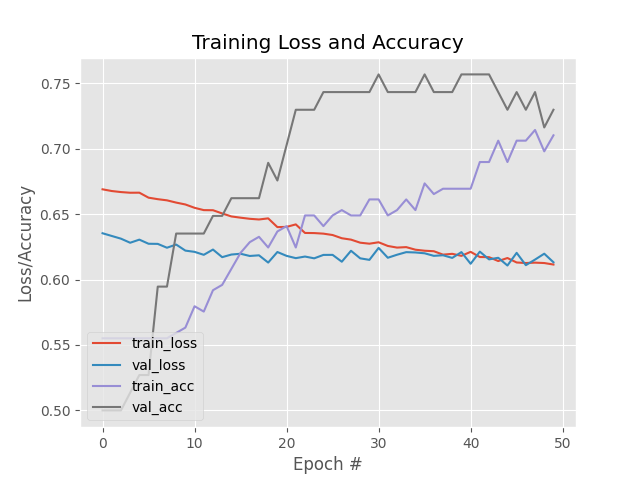
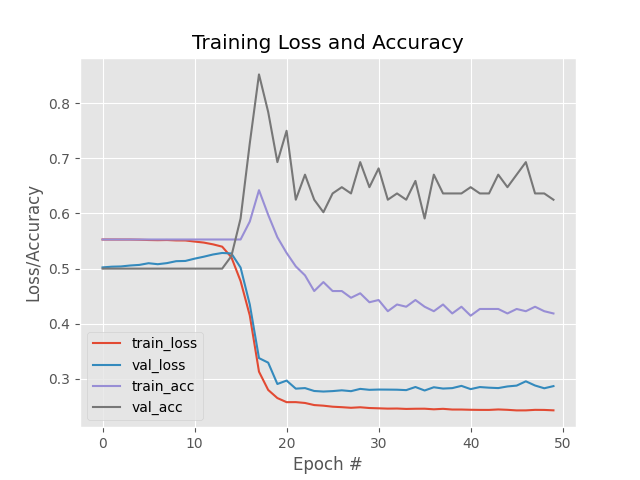
[WIP] some tests

diff --git a/source/utils.py b/source/utils.py
@@ -13,6 +13,7 @@ import siamese_network
 import tensorflow.keras.backend as K
 import matplotlib.pyplot as plt
 import numpy as np
+import random
 
 def pairwise(t):
     it = iter(t)
@@ -24,23 +25,25 @@ def load_and_resize_images_from_folder(folder):
         img = load_img(os.path.join(folder,filename),  target_size=(config.IMG_WIDTH, config.IMG_HEIGHT))
         img = img_to_array(img)
         img = img.reshape(img.shape)
-        img = img / 255.0
+        # img = img / 255.0
         img = np.expand_dims(img, axis=-1)
         # print(img.shape)
         if img is not None:
             images.append(img)
     return images
 
-def plot_pairs(pairs):
+def plot_pairs(pairs, titles):
 	columns = 2
 	rows = 8
 	fig, axs = plt.subplots(rows, columns)
 	for row in range(rows):
 		pair = pairs[row]
+		title = titles[row]
 		for column in range(columns):
 			img = pair[column]
 			axs[row, column].imshow(img.astype('uint8'))
 			axs[row, column].axis('off')
+			axs[row, column].set_title(title)
 	plt.show()
 
 
@@ -63,7 +66,12 @@ def make_pairs(positive_path, negative_path):
 	for pair in negative_pairs:
 		pairImages.append(pair)
 		pairLabels.append([0])
-	return (np.array(pairImages), np.array(pairLabels))
+	
+	combined_lists = list(zip(pairImages, pairLabels))
+	random.shuffle(combined_lists)
+	pairImages_shuffled, pairLabels_shuffled = zip(*combined_lists)
+	# plot_pairs(pairImages_shuffled,pairLabels_shuffled)
+	return (np.array(pairImages_shuffled), np.array(pairLabels_shuffled))
 
 def contrastive_loss(y, preds, margin=1):
 	# explicitly cast the true class label data type to the predicted
@@ -91,7 +99,9 @@ def build_model():
 	model = Model(inputs=[imgA, imgB], outputs=outputs)
 	# compile the model
 	print("[INFO] compiling model...")
-	model.compile(loss="binary_crossentropy", optimizer="adam", metrics=["accuracy"])
+	# opt = tf.keras.optimizers.Adam(learning_rate=0.0001)
+	# model.compile(loss="binary_crossentropy", optimizer=opt, metrics=["accuracy"])
+	model.compile(loss=contrastive_loss, optimizer="adam", metrics=["accuracy"])
 	return model
 
 def euclidean_distance(vectors):

diff --git a/source/train_siamese_network.py b/source/train_siamese_network.py
@@ -33,7 +33,7 @@ history = model.fit(
 	[pairTrain[:, 0], pairTrain[:, 1]], labelTrain[:],
 	validation_data=([pairTest[:, 0], pairTest[:, 1]], labelTest[:]),
 	batch_size=config.BATCH_SIZE,
-	shuffle=True,
+	# shuffle=True,
 	epochs=config.EPOCHS)
 
 # serialize the model to disk
